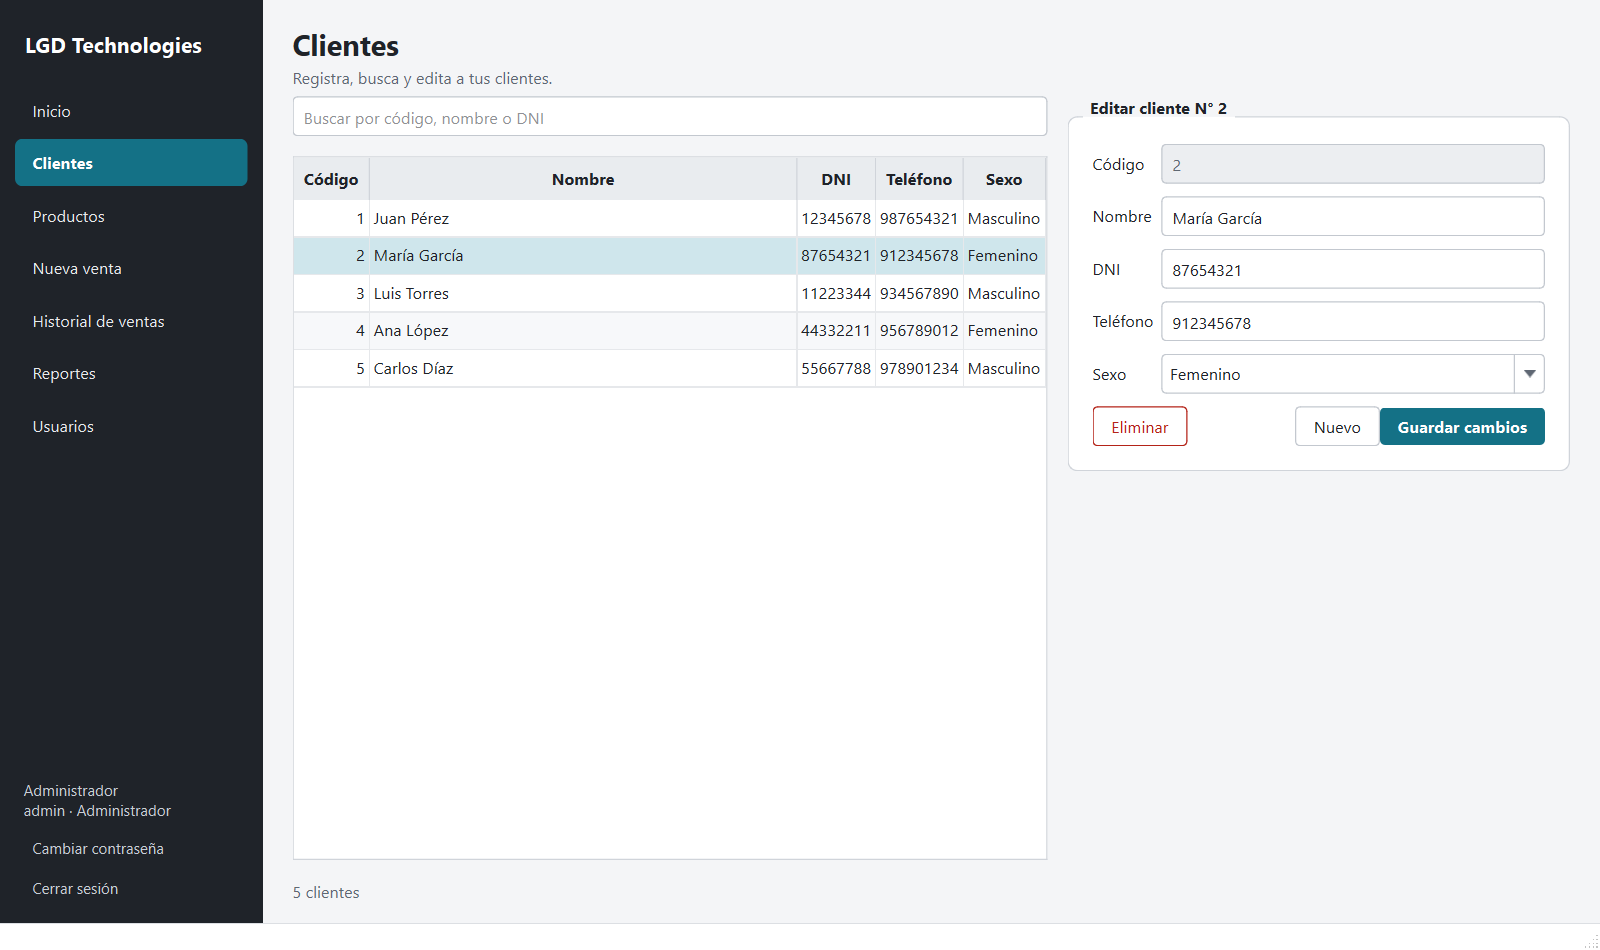
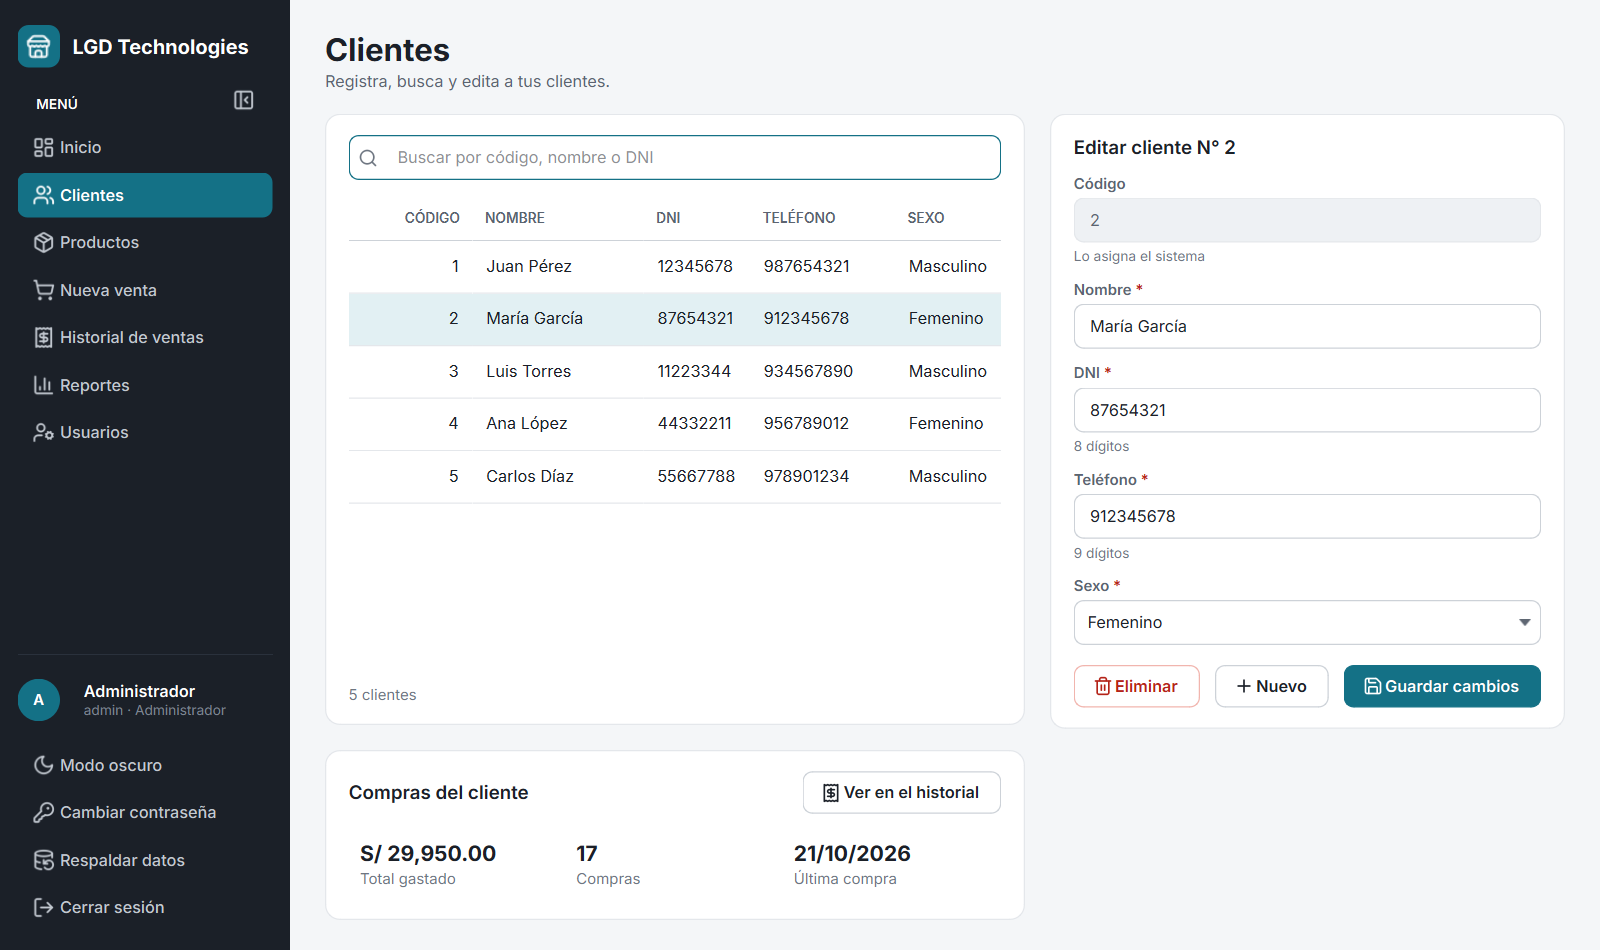
Actualiza el README y las capturas con las nuevas funciones
- Capturas nuevas de todas las pantallas, del modo oscuro y de la
  pantalla bloqueada.
- Respaldo y restauración, opción de bloqueo en config.ini y
  migración de bases anteriores.
- Atajos de teclado, permisos por rol y solución de problemas.

diff --git a/README.md b/README.md
@@ -12,17 +12,38 @@ Aplicación de escritorio para gestionar las ventas de una tienda de tecnología
 
 ## Características
 
-- **Inicio de sesión con roles.** Administrador y Vendedor, con contraseñas cifradas (PBKDF2) y bloqueo temporal tras varios intentos fallidos.
-- **Panel de inicio.** Ventas del día y del mes, clientes registrados, productos con stock bajo y los más vendidos.
+- **Inicio de sesión con roles.** Administrador y Vendedor, con contraseñas cifradas (PBKDF2), opción para ver la contraseña al escribirla y bloqueo temporal tras varios intentos fallidos.
+  - Quien ingresa con una contraseña de ejemplo, o con una temporal que le asignó el administrador, debe cambiarla antes de entrar.
+  - Tras unos minutos sin uso la pantalla se bloquea y pide la contraseña para seguir. Lo que estabas haciendo, como una venta a medias, queda tal cual.
+- **Panel de inicio.**
+  - Ventas del día y del mes comparadas con ayer y con el mismo tramo del mes anterior (▲ / ▼).
+  - Gráfico de ventas por día de los últimos 7 o 30 días.
+  - Ranking de los más vendidos y productos con stock bajo.
+  - Cada tarjeta lleva a su detalle: las ventas de hoy o del mes abren el historial ya filtrado, y *Stock bajo* abre Productos con solo esos productos.
 - **Clientes y productos.** Tabla con buscador y formulario en la misma pantalla. Valida DNI (8 dígitos), teléfono (9 dígitos), precios y DNI repetidos.
+  - Al elegir un cliente se ve cuánto ha gastado, cuántas compras hizo y la fecha de la última, con un acceso a sus ventas en el historial.
+  - En Productos, el filtro *Solo stock bajo* muestra lo que hay que reponer.
+- **Stock seguro.** El stock no se escribe a mano: se ingresa o retira mercadería con un movimiento que suma o resta sobre el valor real, así nunca se pisa una venta hecha al mismo tiempo.
 - **Ventas.**
-  - El stock se valida al agregar y otra vez al registrar.
-  - Precio, subtotal y total en soles, y forma de pago (contado o crédito).
-  - Todo se guarda en una sola transacción: si algo falla, no se registra nada.
-- **Boleta en PDF.** Se ofrece al registrar cada venta y se puede volver a generar desde el historial.
-- **Historial de ventas.** Filtros por fecha, estado y cliente. El administrador puede anular una venta indicando el motivo, y el stock se devuelve automáticamente.
-- **Reportes mensuales y semanales.** Se exportan a **PDF** o **Excel** (con fechas y montos como valores reales y el total con fórmula).
+  - El detalle se ve como un ticket: la cantidad se cambia en cada línea y se quita con una ✕.
+  - Escribe o escanea el código del producto y pulsa Enter para agregarlo (funciona con lector de código de barras).
+  - Registra un cliente nuevo sin salir de la venta, o vende a **Cliente varios** sin registrarlo (solo al contado).
+  - Al contado calcula el vuelto a partir del monto recibido.
+  - El stock se valida al agregar y otra vez al registrar, y todo se guarda en una sola transacción: si algo falla, no se registra nada.
+- **Boleta.** Al registrar la venta puedes imprimirla directamente o guardarla en PDF; también desde el historial.
+- **Historial de ventas.** Periodos rápidos (*Hoy*, *Esta semana*, *Este mes*, *Mes anterior*) o fechas a elección, filtro por estado y búsqueda por N° de venta, cliente o DNI. El detalle se ve como un recibo. El administrador puede anular una venta indicando el motivo: el stock se devuelve automáticamente y la venta queda marcada como anulada.
+- **Reportes.**
+  - Se actualizan solos al elegir el periodo, con los mismos periodos rápidos del historial.
+  - Muestran el N° de ventas, el total vendido, el ticket promedio y un gráfico de ventas por día (o por mes en periodos largos).
+  - Se pueden agrupar por venta, por producto o por vendedor.
+  - Se exportan a **PDF** o **Excel** (con fechas y montos como valores reales y el total con fórmula).
 - **Usuarios.** El administrador crea cuentas, asigna roles y activa o desactiva el acceso.
+- **Respaldo de datos.** Con un clic el administrador guarda una copia completa de la base de datos en un archivo `.sql`, sin instalar herramientas extra.
+- **Interfaz cuidada.** Menú con íconos, tablas con etiquetas de estado, errores marcados junto a cada campo y notificaciones que no interrumpen.
+  - **Modo oscuro** con colores elegidos para leerse bien, no simplemente invertidos.
+  - Menú que se contrae a solo íconos para dar más espacio a las tablas.
+  - Transiciones suaves al cambiar de pantalla.
+- **Pensado para el día a día.** Atajos de teclado, tablas que se ordenan con un clic, aviso antes de perder cambios sin guardar, y recuerda tu usuario, el tamaño de la ventana y la última pantalla que usaste.
 
 ## Capturas
 
@@ -41,6 +62,10 @@ Aplicación de escritorio para gestionar las ventas de una tienda de tecnología
 | Usuarios | Boleta en PDF |
 |:---:|:---:|
 | ![Usuarios](docs/img/usuarios.png) | ![Boleta en PDF](docs/img/boleta.png) |
+
+| Modo oscuro | Pantalla bloqueada por inactividad |
+|:---:|:---:|
+| ![Modo oscuro](docs/img/inicio_oscuro.png) | ![Pantalla bloqueada](docs/img/bloqueo.png) |
 
 Reporte exportado a PDF:
 
@@ -93,7 +118,13 @@ Reporte exportado a PDF:
    user = tienda
    password = una_contraseña_segura
    database = bd_tienda_tecnologia
+
+   [sistema]
+   ; Minutos sin uso antes de bloquear la pantalla (0 lo desactiva)
+   bloqueo_minutos = 10
    ```
+
+   La sección `[sistema]` es opcional: si no la pones, la pantalla se bloquea a los 10 minutos.
 
 6. **Ejecuta la aplicación**
 
@@ -109,7 +140,9 @@ Reporte exportado a PDF:
 | `vendedor` | `vendedor123` | Vendedor |
 
 > [!IMPORTANT]
-> Cambia estas contraseñas apenas instales el sistema. Puedes hacerlo desde **Cambiar contraseña**, en la parte inferior del menú.
+> Estas contraseñas son públicas: al ingresar con ellas, el sistema te pide crear una nueva antes de continuar. Más adelante puedes cambiarla desde **Cambiar contraseña**, en la parte inferior del menú.
+
+Cuando el administrador crea un usuario, o le pone una contraseña nueva desde **Usuarios**, esa contraseña es temporal: el usuario la reemplaza por una propia la primera vez que ingresa.
 
 Qué puede hacer cada rol:
 
@@ -119,15 +152,58 @@ Qué puede hacer cada rol:
 | Eliminar clientes | ✅ | — |
 | Productos, Reportes y Usuarios | ✅ | — |
 | Anular ventas | ✅ | — |
+| Respaldar datos | ✅ | — |
+
+## Atajos de teclado
+
+| Atajo | Acción |
+|---|---|
+| `Ctrl+1` … `Ctrl+7` | Inicio, Clientes, Productos, Nueva venta, Historial, Reportes y Usuarios |
+| `F2` | Nueva venta |
+| `Ctrl+F` | Ir al buscador de la pantalla |
+| `Esc` | Borrar la búsqueda |
+| `Ctrl+N` | Nuevo cliente, producto o usuario |
+| `Ctrl+S` o `Enter` | Guardar el formulario |
+| `Enter` en el buscador de productos (o lector de código de barras) | Agregar el producto con ese código |
+| `Enter` en la cantidad o doble clic en un producto | Agregarlo a la venta |
+
+Haz clic en el encabezado de una columna para ordenar la tabla; un tercer clic vuelve al orden original.
+
+## Respaldo y restauración
+
+El administrador puede pulsar **Respaldar datos**, en la parte inferior del menú, para guardar una copia completa de la base de datos en un archivo `.sql`. El sistema te propone un nombre con la fecha y la hora, y la descripción del botón muestra cuándo fue el último respaldo. Guarda también una copia fuera de la PC, en un USB o en la nube.
+
+Para restaurar un respaldo, crea la base de datos si no existe y carga el archivo:
+
+```bash
+mysql -u root -p -e "CREATE DATABASE IF NOT EXISTS bd_tienda_tecnologia CHARACTER SET utf8mb4"
+mysql -u root -p --default-character-set=utf8mb4 bd_tienda_tecnologia < respaldo_bd_tienda_tecnologia_2026-10-21_1830.sql
+```
+
+> [!WARNING]
+> Restaurar reemplaza las tablas con el contenido del respaldo: lo registrado después de esa fecha se pierde.
 
 ## Actualizar una base de datos anterior
 
-Si creaste la base con una versión anterior de este proyecto, haz un respaldo y ejecuta la migración **una sola vez**. Convierte las ventas al nuevo formato y crea el usuario `admin` / `admin123`.
+Si creaste la base con una versión anterior de este proyecto, primero haz un respaldo:
 
 ```bash
 mysqldump -u root -p bd_tienda_tecnologia > respaldo.sql
-mysql -u root -p --default-character-set=utf8mb4 -e "source BD/actualizar_bd.sql"
 ```
+
+Luego ejecuta **una sola vez** la migración que corresponda:
+
+- **Tu base no tiene la tabla `usuario`** (versión original): convierte las ventas al nuevo formato y crea el usuario `admin` / `admin123`.
+
+  ```bash
+  mysql -u root -p --default-character-set=utf8mb4 -e "source BD/actualizar_bd.sql"
+  ```
+
+- **Tu base ya tiene la tabla `usuario`**: habilita las ventas a «Cliente varios» y las contraseñas temporales.
+
+  ```bash
+  mysql -u root -p --default-character-set=utf8mb4 -e "source BD/actualizar_bd_2.sql"
+  ```
 
 ## Crear un ejecutable (.exe)
 
@@ -149,8 +225,11 @@ SistemaVentas/
 ├── BD/
 │   ├── bd_tienda_tecnologia.sql   # Esquema de la base de datos
 │   ├── datos_bd.sql               # Datos de ejemplo y usuarios iniciales
-│   └── actualizar_bd.sql          # Migración desde la versión anterior
-├── iconos/                # Íconos de la interfaz
+│   ├── actualizar_bd.sql          # Migración desde la versión original
+│   └── actualizar_bd_2.sql        # Migración desde la versión con usuarios
+├── iconos/                # Ícono de la aplicación y de los controles
+│   └── lucide/            # Íconos de línea del menú y los botones
+├── fuentes/               # Tipografía Inter (se incluye para verse igual en cualquier PC)
 ├── docs/img/              # Capturas usadas en este README
 ├── config.ejemplo.ini     # Plantilla de config.ini
 ├── SistemaVentas.spec     # Configuración para crear el .exe
@@ -161,14 +240,22 @@ SistemaVentas/
 
 - Todas las consultas SQL son parametrizadas, lo que evita la inyección SQL.
 - Las contraseñas de los usuarios se guardan cifradas con PBKDF2-SHA256 y sal aleatoria.
+- Las contraseñas de ejemplo y las temporales se cambian obligatoriamente al ingresar.
+- La pantalla se bloquea tras un tiempo sin uso y solo la desbloquea el mismo usuario con su contraseña.
 - Las credenciales de MySQL viven en `config.ini`, fuera del código y del repositorio.
 - Los errores inesperados se muestran con un mensaje claro y se registran en `sistema_ventas.log`.
 
 ## Solución de problemas
 
 - **"No se pudo conectar con MySQL":** verifica que el servidor esté encendido y que los datos de `config.ini` sean correctos.
+- **"Base de datos desactualizada":** tu base se creó con una versión anterior. Haz un respaldo y ejecuta la migración que indica el mensaje (ver [Actualizar una base de datos anterior](#actualizar-una-base-de-datos-anterior)).
 - **Tildes o símbolos raros al consultar desde la consola de Windows:** los datos están bien; es la consola la que no muestra UTF-8. Ejecuta `chcp 65001` y usa `mysql --default-character-set=utf8mb4`.
 - **Otros errores:** revisa `sistema_ventas.log`, junto a `control.py` o al `.exe`. Ese archivo solo se crea si ocurrió algún error.
+
+## Créditos
+
+- Tipografía [Inter](https://rsms.me/inter/), bajo la licencia SIL Open Font License 1.1 ([fuentes/OFL.txt](fuentes/OFL.txt)).
+- Íconos [Lucide](https://lucide.dev), bajo la licencia ISC ([iconos/lucide/LICENSE](iconos/lucide/LICENSE)).
 
 ## Contribuciones
 
